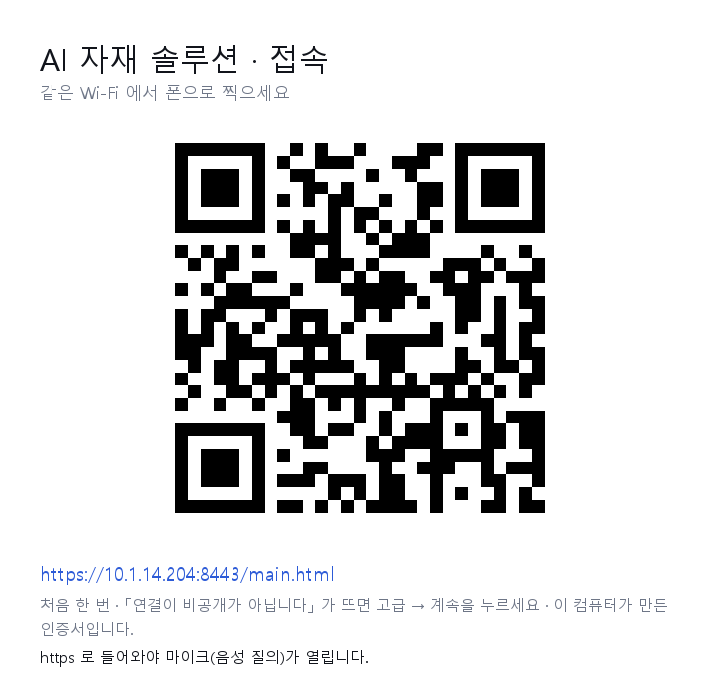
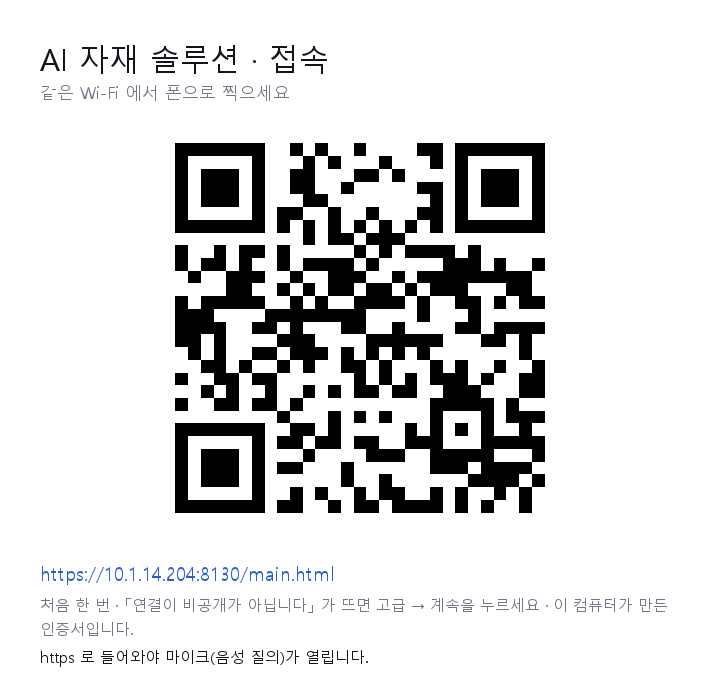
한 포트에서 http 와 https 를 함께 받는다
마이크는 https 에서만 열린다 · 그래서 8443 을 따로 두었더니
「포트를 바꿔 다시 들어오세요」 가 시연 대사가 됐다.
첫 바이트를 엿보아(MSG_PEEK) 0x16 이면 TLS 로 감싼다 ·
같은 8130 에서 주소 앞에 s 만 붙이면 마이크가 열린다.
make_qr 의 main() 이 import 만 해도 돌아 다른 스크립트의 인자를 먹었다 · 가뒀다.

diff --git a/serve.py b/serve.py
@@ -496,11 +496,29 @@ class Server(http.server.ThreadingHTTPServer):
         http.server.ThreadingHTTPServer.handle_error(self, request, client_address)
 
     def finish_request(self, request, client_address):
+        """한 포트에서 http 와 https 를 **둘 다** 받는다.
+
+        왜 · 마이크는 https 에서만 열린다. 그래서 https 를 8443 에 따로 두었더니
+        「마이크 쓰려면 포트를 바꿔 다시 들어오세요」 가 됐다 · 시연에서 그 말을 하고 싶지 않다.
+
+        어떻게 · 들어온 첫 바이트를 **엿본다**(MSG_PEEK · 읽어 버리지 않는다).
+        TLS 악수는 반드시 0x16(handshake)으로 시작한다 · 그러면 감싸고, 아니면 그냥 평문이다.
+        그래서 https://주소:8130 도 http://주소:8130 도 같은 자리에서 열린다.
+        """
         if self.ctx is not None:
             try:
-                request = self.ctx.wrap_socket(request, server_side=True)
+                request.settimeout(8)
+                head = request.recv(1, socket.MSG_PEEK)
+                request.settimeout(None)
             except OSError:
-                return          # 악수가 깨진 연결 하나를 버린다 · 서버는 계속 산다
+                return
+            if head[:1] == b'':
+                try:
+                    request = self.ctx.wrap_socket(request, server_side=True)
+                except OSError:
+                    return      # 악수가 깨진 연결 하나를 버린다 · 서버는 계속 산다
+            elif not head:
+                return          # 아무것도 안 보내고 끊은 연결
         self.RequestHandlerClass(request, client_address, self)
 
 
@@ -556,7 +574,8 @@ def main():
     tls, tls_why = (None, None)
     if a.https:
         tls, tls_why = ensure_cert(ip)
-    sbase = 'https://%s:%d' % (ip, a.sport) if tls else None
+    sbase = 'https://%s:%d' % (ip, a.port) if tls else None      # 같은 포트의 https
+    salt = 'https://%s:%d' % (ip, a.sport) if tls else None      # 예전에 안내한 주소
     # 인증서를 만든 뒤에 써야 https 주소를 같이 내려 줄 수 있다
     local = write_local_config(env, sbase)
 
@@ -566,8 +585,9 @@ def main():
     if sbase:
         print()
         print('=' * 66)
-        print('  마이크를 쓰려면 이 주소로 들어간다 (같은 Wi-Fi)')
+        print('  마이크를 쓰려면 주소 앞에 s 만 붙인다 · 포트는 그대로다')
         print('    %s/main.html' % sbase)
+        print('    (예전 주소 %s/main.html 도 그대로 열린다)' % salt)
         print()
         print('  처음 한 번 · 「연결이 비공개가 아닙니다」 → 고급 → 계속 (이 컴퓨터가 만든 인증서다)')
         print('  그 뒤부터 마이크 · 음성 인식이 열린다 (http 로는 브라우저가 막는다)')
@@ -605,8 +625,10 @@ def main():
 
     os.chdir(ROOT)
     if tls:
-        # HTTP 는 뒤에서 돌리고 HTTPS 를 앞에서 돌린다 · 둘 다 같은 파일 · 같은 프록시를 쓴다
-        t = threading.Thread(target=serve_forever, args=(a.host, a.port), daemon=True)
+        # 두 포트 모두 http · https 를 가리지 않고 받는다 ·
+        # 8130 으로 들어와도 https 로 오면 마이크가 열린다 (포트를 바꿀 일이 없다).
+        # 8443 은 전에 안내한 주소라 그대로 남겨 둔다
+        t = threading.Thread(target=serve_forever, args=(a.host, a.port, tls), daemon=True)
         t.start()
         serve_forever(a.host, a.sport, tls)
     else:

diff --git a/make_qr.py b/make_qr.py
@@ -266,4 +266,7 @@ def main():
     print('\nqr/ 에 냈다. 스캔해서 화면이 열리는지 확인하면 된다')
 
 
-main()
+# 다른 스크립트가 font · wrap 만 가져다 쓴다 (make_open_qr.py) ·
+# 그때 여기가 같이 돌면 그쪽 인자를 이 파일의 argparse 가 먹어 버린다
+if __name__ == '__main__':
+    main()

diff --git a/make_open_qr.py b/make_open_qr.py
@@ -85,4 +85,5 @@ def main():
     print('  %s' % out)
 
 
-main()
+if __name__ == '__main__':
+    main()
